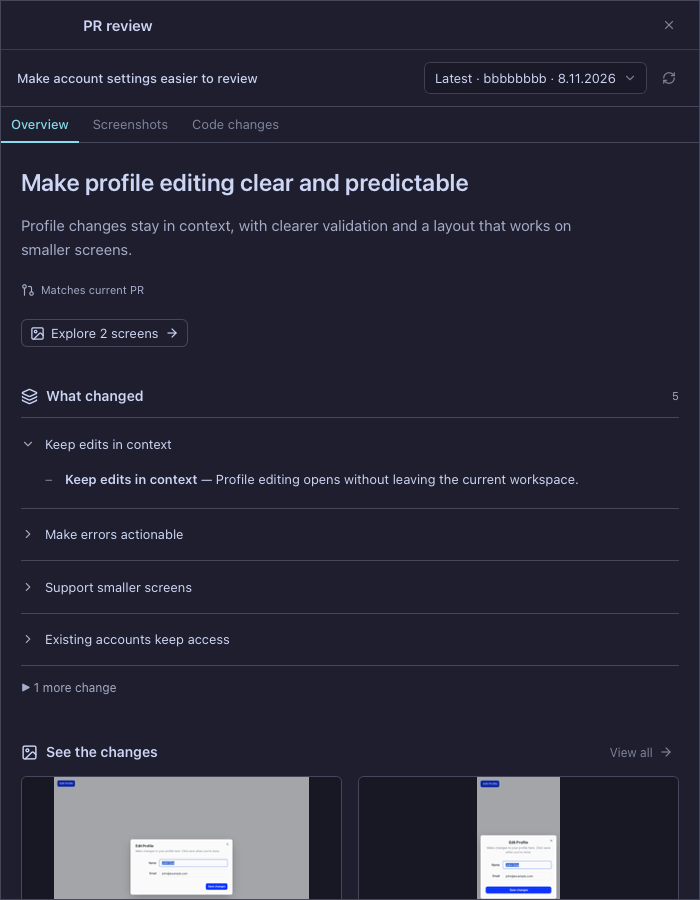
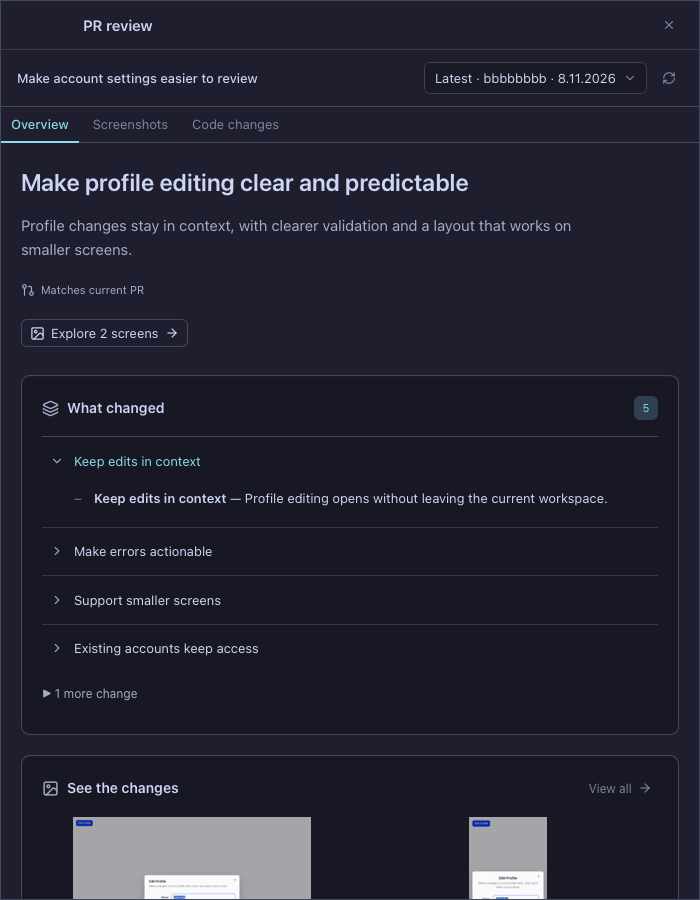
style: give PR overview sections consistent panels

diff --git a/desktop/frontend/src/lib/components/session/ReviewOverview.svelte b/desktop/frontend/src/lib/components/session/ReviewOverview.svelte
@@ -34,12 +34,12 @@
       <div class="intro-meta"><span class:stale={freshness !== 'current'} role="status"><Icon name={freshness === 'current' ? 'git-pull-request' : 'circle-alert'} size={14}/>{freshness === 'current' ? 'Matches current PR' : freshness === 'stale' ? 'Outdated material' : 'Freshness unknown'}</span></div>
       {#if screens.length}<Button variant="secondary" onclick={() => onScreen(0)}><Icon name="image" size={15}/>Explore {screens.length} {screens.length === 1 ? 'screen' : 'screens'}<Icon name="arrow-right" size={14}/></Button>{/if}
     </header>
-      <section aria-label="Changes in this review">
-        <div class="section-title"><h2><Icon name="layers" size={17}/>What changed</h2><span>{overview.changes.length}</span></div>
+      <section class="review-panel features" aria-label="Changes in this review">
+        <div class="section-title"><h2><Icon name="layers" size={17}/>What changed</h2><span class="section-count">{overview.changes.length}</span></div>
         {@render entries(overview.changes.slice(0,4),'No feature breakdown provided.')}
         {#if overview.changes.length > 4}<details class="additional"><summary>{overview.changes.length-4} more {overview.changes.length === 5 ? 'change' : 'changes'}</summary>{@render entries(overview.changes.slice(4),'')}</details>{/if}
       </section>
-      {#if screens.length}<section class="visual-review" aria-label="Screenshot previews">
+      {#if screens.length}<section class="review-panel visual-review" aria-label="Screenshot previews">
         <div class="section-title"><h2><Icon name="image" size={17}/>See the changes</h2><Button size="xs" onclick={() => onScreen(0)}>View all<Icon name="arrow-right" size={14}/></Button></div>
         <div class="screenshot-grid">{#each screens.slice(0,4) as screen,i}<button class="screen-preview" onclick={() => onScreen(i)} aria-label={`Review screenshot: ${screen.title}`}>
           <ReviewThumbnail {pkg} artifact={screen.after} label={`Preview: ${screen.title}`}/>
@@ -60,7 +60,7 @@
       </section>
       {#if checks}<div class="checks">{@render checks()}</div>{/if}
     </div>
-      <section class="risks" aria-label="Reported risks">
+      <section class="review-panel risks" aria-label="Reported risks">
         <div class="section-title"><h2><Icon name="circle-alert" size={17}/>Risks &amp; follow-up</h2><span title="Ordered by likelihood × impact. Unrated risks precede lower-rated risks.">Agent assessment</span></div>
         {#if overview.risks.length}
           <div class="risk-columns" aria-hidden="true"><span>Risk</span><span>Likelihood</span><span>Impact</span></div>
@@ -72,12 +72,12 @@
         {#if unrated && onAssessRisks}<Button size="xs" variant="secondary" loading={assessment?.state === 'sending'} disabled={assessment?.state === 'accepted'} onclick={onAssessRisks}><Icon name="sparkles" size={13}/>{assessment?.state === 'accepted' ? 'Assessment requested' : assessment?.state === 'error' ? 'Retry assessment' : 'Ask agent to assess risks'}</Button>{/if}
         {#if assessment?.message}<p class="assessment-message" role={assessment.state === 'error' ? 'alert' : 'status'}>{assessment.message}</p>{/if}
       </section>
-      {#if feedback}<div class="feedback">{@render feedback()}</div>{/if}
+      {#if feedback}<div class="review-panel feedback">{@render feedback()}</div>{/if}
   </div>
 </div>
 
 <style>
-  .overview { display:grid; grid-template-columns:minmax(0,1.2fr) minmax(360px,1fr); gap:48px; align-items:start; min-width:0; }
+  .overview { display:grid; grid-template-columns:minmax(0,1.2fr) minmax(360px,1fr); gap:24px; align-items:start; min-width:0; }
   .review-intro { min-width:0; padding:8px 0; }
   h1 { margin:0 0 16px; max-width:30ch; font-size:28px; line-height:1.25; font-weight:600; color:var(--color-ink); text-wrap:balance; overflow-wrap:anywhere; }
   .summary-copy { max-width:60ch; color:var(--color-ink-2); font-size:15px; line-height:1.6; margin-bottom:20px; }
@@ -85,6 +85,7 @@
   .intro-meta > span:first-child { display:flex; align-items:center; gap:6px; }
   .stale { color:var(--color-warn); }
   h2 { display:flex; align-items:center; gap:8px; font-size:14px; font-weight:600; color:var(--color-ink); }
+  .review-panel { min-width:0; padding:20px; border:1px solid var(--color-edge); border-radius:9px; background:var(--color-canvas); box-shadow:inset 0 1px 0 color-mix(in srgb,var(--color-ink) 3%,transparent); }
   .readiness { min-width:0; background:var(--color-canvas); border:1px solid var(--color-edge); border-radius:8px; padding:20px; }
   .confidence { display:grid; grid-template-columns:minmax(0,1fr) auto; gap:12px 16px; }
   .confidence-label { display:grid; align-content:center; gap:6px; }
@@ -98,45 +99,48 @@
   .score-explanation dl { margin:12px 0 8px; } .score-explanation dl > div { display:flex; justify-content:space-between; gap:12px; margin:6px 0; }
   .score-explanation p { max-width:65ch; line-height:1.6; }
   .checks { margin-top:20px; }
-  .section-title { display:flex; align-items:center; justify-content:space-between; gap:12px; margin-bottom:12px; }
+  .section-title { display:flex; align-items:center; justify-content:space-between; gap:12px; margin-bottom:16px; }
   .section-title > span { color:var(--color-ink-2); font-size:11px; }
-  .change-column,.decision-column { min-width:0; display:grid; gap:32px; }
+  .section-title .section-count { display:inline-flex; align-items:center; justify-content:center; min-width:24px; height:24px; padding:0 7px; border-radius:6px; background:var(--color-accent-fill); color:var(--color-accent-ink); font-variant-numeric:tabular-nums; }
+  .section-title h2 :global(svg) { color:var(--color-ink-2); }
+  .change-column,.decision-column { min-width:0; display:grid; gap:20px; }
   summary { cursor:pointer; }
   summary:focus-visible,.screen-preview:focus-visible { outline:2px solid var(--color-accent); outline-offset:3px; }
   .entries { border-top:1px solid var(--color-edge); }
-  .entry { border-bottom:1px solid var(--color-edge); }
-  .entry > summary { display:flex; align-items:center; gap:10px; list-style:none; padding:16px 0; font-size:13px; line-height:1.5; color:var(--color-ink); }
+  .entry { border-bottom:1px solid color-mix(in srgb,var(--color-edge) 65%,transparent); }
+  .entries > .entry:last-child { border-bottom:0; }
+  .entry > summary { display:flex; align-items:center; gap:10px; list-style:none; padding:14px 8px; border-radius:4px; font-size:13px; line-height:1.5; color:var(--color-ink); }
   .entry > summary::-webkit-details-marker { display:none; }
   .entry > summary :global(svg) { flex-shrink:0; color:var(--color-ink-2); transition:transform 150ms ease-out; }
   .entry[open] > summary :global(svg) { transform:rotate(90deg); }
-  .entry > summary:hover { color:var(--color-accent); }
-  .entry-detail { padding:0 0 18px 24px; max-width:75ch; font-size:13px; overflow-wrap:anywhere; }
+  .entry > summary:hover { color:var(--color-accent); background:color-mix(in srgb,var(--color-sel) 35%,transparent); }
+  .entry[open] > summary { color:var(--color-accent-ink); }
+  .entry-detail { padding:4px 8px 18px 32px; max-width:75ch; font-size:13px; overflow-wrap:anywhere; }
   .entry-detail :global(pre) { max-width:100%; overflow:auto; }
   .empty-copy { color:var(--color-ink-2); padding:8px 0 16px; font-size:12px; }
   .additional { margin-top:12px; font-size:12px; color:var(--color-ink-2); }
   .additional > summary { margin-bottom:12px; }
-  .source-details { margin-top:0; } .source-copy { font-size:11px; line-height:1.6; margin:12px 0; }
+  .source-details { margin:0 8px; } .source-copy { font-size:11px; line-height:1.6; margin:12px 0; }
   .screenshot-grid { display:grid; grid-template-columns:repeat(2,minmax(0,1fr)); gap:16px; }
-  .screen-preview { text-align:left; min-width:0; border:1px solid var(--color-edge); border-radius:6px; overflow:hidden; background:var(--color-canvas); cursor:pointer; transition:border-color 150ms; }
-  .screen-preview:hover { border-color:var(--color-accent); }
-  .preview-caption { display:flex; justify-content:space-between; align-items:center; gap:12px; padding:12px; font-size:12px; color:var(--color-ink); }
+  .screen-preview { text-align:left; min-width:0; border:1px solid transparent; border-radius:6px; overflow:hidden; background:transparent; cursor:pointer; transition:border-color 150ms; }
+  .screen-preview:hover { border-color:var(--color-edge); background:var(--color-panel); }
+  .preview-caption { display:flex; justify-content:space-between; align-items:center; gap:12px; padding:12px 8px 4px; font-size:12px; color:var(--color-ink); }
   .preview-caption > span { overflow-wrap:anywhere; } .preview-caption :global(svg) { flex-shrink:0; }
-  .risk-columns,.risk-entry > summary { display:grid; grid-template-columns:minmax(0,1fr) 84px 84px; gap:12px; }
-  .risk-columns { font-size:10px; color:var(--color-ink-2); padding:0 0 8px; border-bottom:1px solid var(--color-edge); }
+  .risk-columns,.risk-entry > summary { display:grid; grid-template-columns:minmax(0,1fr) 92px 92px; gap:12px; }
+  .risk-columns { font-size:10px; color:var(--color-ink-2); padding:0 8px 8px; border-bottom:1px solid var(--color-edge); }
   .risk-title { display:flex; gap:8px; align-items:center; overflow-wrap:anywhere; }
   .risk-entry.priority .risk-title { color:var(--color-warn); }
-  .risk-level { display:flex; gap:6px; align-items:center; font-size:11px; text-transform:capitalize; color:var(--color-ink-2); white-space:nowrap; }
+  .risk-level { display:inline-flex; padding:4px 6px; border-radius:4px; background:var(--color-panel); gap:6px; align-items:center; font-size:11px; text-transform:capitalize; color:var(--color-ink-2); white-space:nowrap; }
   .level-bars { display:flex; gap:2px; align-items:end; height:12px; }
   .level-bars i { width:3px; height:5px; border-radius:1px; background:var(--color-edge); }
   .level-bars i:nth-child(2) { height:8px; } .level-bars i:nth-child(3) { height:11px; }
   .level-bars i.filled { background:currentColor; }
-  [data-level=high] { color:var(--color-warn); } [data-level=medium] { color:var(--color-ink); }
+  [data-level=high] { color:var(--color-warn); background:color-mix(in srgb,var(--color-warn) 10%,var(--color-canvas)); } [data-level=medium] { color:var(--color-ink); }
   .risks > :global(button) { margin-top:16px; }
   .assessment-message { color:var(--color-ink-2); font-size:12px; line-height:1.5; margin-top:12px; }
-  .feedback { border-top:1px solid var(--color-edge); padding-top:24px; }
   @media(min-width:1700px) { .screenshot-grid { grid-template-columns:repeat(4,minmax(0,1fr)); } }
   @media(max-width:1100px) { .overview { gap:28px; grid-template-columns:minmax(0,1fr) minmax(340px,1fr); } h1 { font-size:24px; } }
   @media(max-width:800px) { .overview { grid-template-columns:minmax(0,1fr); gap:28px; } .review-intro { padding-top:0; } }
-  @media(max-width:440px) { .risk-columns,.risk-entry > summary { grid-template-columns:minmax(0,1fr) 70px 70px; gap:8px; } .risk-level { gap:4px; font-size:10px; } .readiness { padding:16px; } .screenshot-grid { gap:12px; } }
+  @media(max-width:440px) { .risk-columns,.risk-entry > summary { grid-template-columns:minmax(0,1fr) 76px 76px; gap:8px; } .risk-level { gap:4px; font-size:10px; } .readiness,.review-panel { padding:16px; } .screenshot-grid { gap:12px; } }
   @media(prefers-reduced-motion:reduce) { .entry > summary :global(svg),.screen-preview { transition:none; } }
 </style>

diff --git a/docs/evaluation/pr-review-workspace/README.md b/docs/evaluation/pr-review-workspace/README.md
@@ -173,3 +173,11 @@ source expansion, screenshot navigation, and absence of the background splitter.
 No page errors or horizontal document/dialog overflow. Native WKWebView was not
 exercised. Sixty-four focused frontend tests, Svelte check, production build and
 Go runtime tests passed. Impeccable's layout scan reported no findings.
+
+
+Panel styling follow-up: Changes, screenshots, risks and feedback now share the
+readiness panel's bordered surface, inset spacing and rounded corners. Feature
+counts and risk levels have compact badges; expanded rows show their active
+state. Updated captures above were checked in WebKit at 1440, 700 and 420px with
+no browser errors or horizontal overflow. All 22 overview/workspace component
+tests and Svelte check passed. This is a frontend-only styling change.
